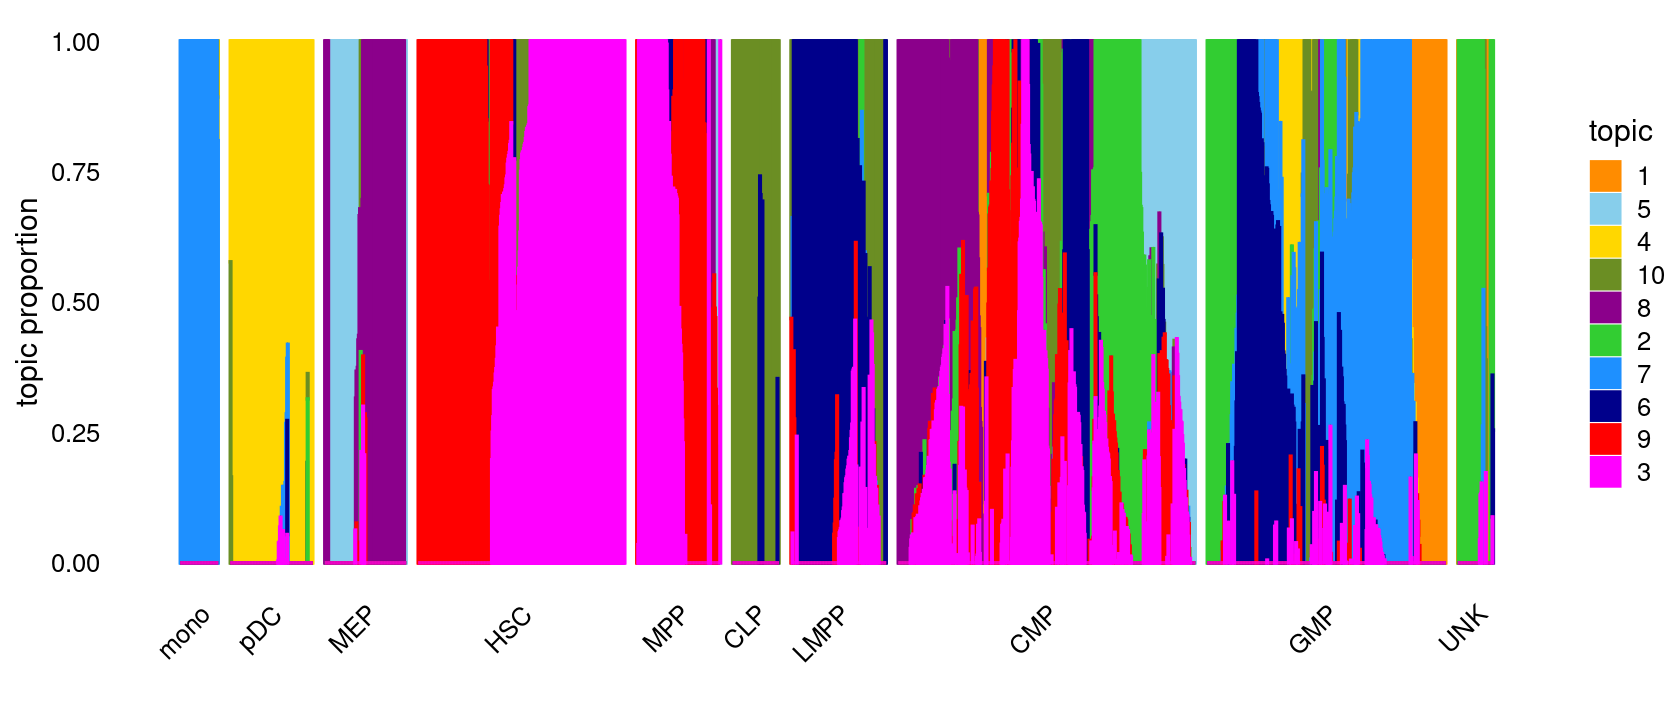
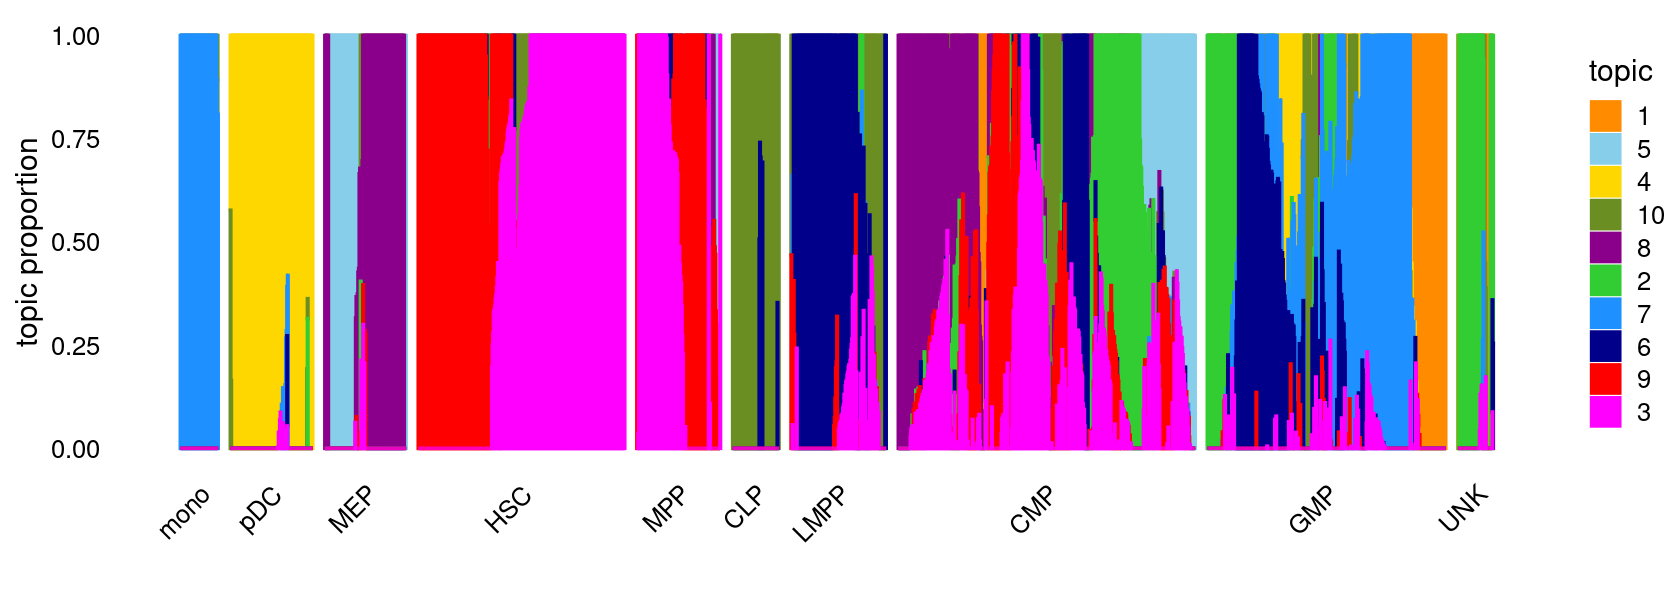
Build site.

diff --git a/docs/analysis_Buenrostro2018_k10.html b/docs/analysis_Buenrostro2018_k10.html
@@ -459,16 +459,16 @@ This reproducible <a href="https://rmarkdown.rstudio.com">R Markdown</a> analysi
 <div class="panel panel-default">
 <div class="panel-heading">
 <p class="panel-title">
-<a data-toggle="collapse" data-parent="#workflowr-checks" href="#strongRepositoryversionstrongahrefhttpsgithubcomstephenslabscATACseqtopicstree6779e042b6d0a4866d974eac84ea4fbbdc720ffetargetblank6779e04a"> <span class="glyphicon glyphicon-ok text-success" aria-hidden="true"></span> <strong>Repository version:</strong> <a href="https://github.com/stephenslab/scATACseq-topics/tree/6779e042b6d0a4866d974eac84ea4fbbdc720ffe" target="_blank">6779e04</a> </a>
+<a data-toggle="collapse" data-parent="#workflowr-checks" href="#strongRepositoryversionstrongahrefhttpsgithubcomstephenslabscATACseqtopicstree7f5ca244201119044b6a4d53672daf6ea8bb3420targetblank7f5ca24a"> <span class="glyphicon glyphicon-ok text-success" aria-hidden="true"></span> <strong>Repository version:</strong> <a href="https://github.com/stephenslab/scATACseq-topics/tree/7f5ca244201119044b6a4d53672daf6ea8bb3420" target="_blank">7f5ca24</a> </a>
 </p>
 </div>
[2 lines of base64/hex data omitted]
 <div class="panel-body">
 <p>
 Great! You are using Git for version control. Tracking code development and connecting the code version to the results is critical for reproducibility.
 </p>
 <p>
-The results in this page were generated with repository version <a href="https://github.com/stephenslab/scATACseq-topics/tree/6779e042b6d0a4866d974eac84ea4fbbdc720ffe" target="_blank">6779e04</a>. See the <em>Past versions</em> tab to see a history of the changes made to the R Markdown and HTML files.
+The results in this page were generated with repository version <a href="https://github.com/stephenslab/scATACseq-topics/tree/7f5ca244201119044b6a4d53672daf6ea8bb3420" target="_blank">7f5ca24</a>. See the <em>Past versions</em> tab to see a history of the changes made to the R Markdown and HTML files.
 </p>
 <p>
 Note that you need to be careful to ensure that all relevant files for the analysis have been committed to Git prior to generating the results (you can use <code>wflow_publish</code> or <code>wflow_git_commit</code>). workflowr only checks the R Markdown file, but you know if there are other scripts or data files that it depends on. Below is the status of the Git repository when the results were generated:
@@ -492,6 +492,8 @@ Unstaged changes:
     Modified:   analysis/motif_analysis_Buenrostro2018_Chen2019pipeline.Rmd
     Modified:   analysis/motif_analysis_Cusanovich2018.Rmd
     Modified:   analysis/plots_Cusanovich2018.Rmd
+    Modified:   scripts/DA_analysis.R
+    Modified:   scripts/postfit_Buenrostro2018_v2.sh
 
 </code></pre>
 <p>
@@ -530,6 +532,40 @@ Message
 </tr>
 </thead>
 <tbody>
+<tr>
+<td>
+Rmd
+</td>
+<td>
+<a href="https://github.com/stephenslab/scATACseq-topics/blob/7f5ca244201119044b6a4d53672daf6ea8bb3420/analysis/analysis_Buenrostro2018_k10.Rmd" target="_blank">7f5ca24</a>
+</td>
+<td>
+kevinlkx
+</td>
+<td>
+2022-03-02
+</td>
+<td>
+updated with original data with peaks called from bulk samples
+</td>
+</tr>
+<tr>
+<td>
+html
+</td>
+<td>
+<a href="https://rawcdn.githack.com/stephenslab/scATACseq-topics/5c18b155ef8a570a43ed57bfde5d2ae14c921d42/docs/analysis_Buenrostro2018_k10.html" target="_blank">5c18b15</a>
+</td>
+<td>
+kevinlkx
+</td>
+<td>
+2022-03-02
+</td>
+<td>
+Build site.
+</td>
+</tr>
 <tr>
 <td>
 Rmd
@@ -635,23 +671,25 @@ library(RColorBrewer)
 library(DT)
 library(reshape)
 source(&quot;code/plots.R&quot;)</code></pre>
-<p>Load the data.</p>
+<div id="load-the-data" class="section level3">
+<h3>Load the data</h3>
+<p>Data downloaded from original paper.</p>
 <pre class="r"><code>data.dir &lt;- &quot;/project2/mstephens/kevinluo/scATACseq-topics/data/Buenrostro_2018/processed_data/&quot;
 load(file.path(data.dir, &quot;Buenrostro_2018_binarized_counts.RData&quot;))
 cat(sprintf(&quot;%d x %d counts matrix.\n&quot;,nrow(counts),ncol(counts)))
 samples$cell &lt;- rownames(samples)
 samples$label &lt;- as.factor(samples$label)
 # 2953 x 491437 counts matrix.</code></pre>
-<p>Load the K = 10 multinomial topic model fit.</p>
+</div>
+<div id="topic-model-fit" class="section level3">
+<h3>Topic model fit</h3>
+<p>Load the K = 10 topic model fit to the data downloaded from the original paper.</p>
 <pre class="r"><code>fit.dir &lt;- &quot;/project2/mstephens/kevinluo/scATACseq-topics/output/Buenrostro_2018/binarized/&quot;
 fit &lt;- readRDS(file.path(fit.dir, &quot;/fit-Buenrostro2018-binarized-scd-ex-k=10.rds&quot;))$fit
 fit &lt;- poisson2multinom(fit)</code></pre>
-<div id="structure-plots" class="section level2">
-<h2>Structure plots</h2>
-<p>The structure plots below summarize the topic proportions in the samples grouped by different tissues.</p>
 </div>
-<div id="visualize-by-structure-plot-grouped-by-tissues" class="section level2">
-<h2>Visualize by Structure plot grouped by tissues</h2>
+<div id="structure-plot" class="section level3">
+<h3>Structure plot</h3>
 <pre class="r"><code>
 topic_colors &lt;- c(&quot;darkorange&quot;,&quot;limegreen&quot;,&quot;magenta&quot;,&quot;gold&quot;,&quot;skyblue&quot;,
                   &quot;darkblue&quot;,&quot;dodgerblue&quot;,&quot;darkmagenta&quot;,&quot;red&quot;,&quot;olivedrab&quot;)
@@ -689,6 +727,17 @@ Date
 <tbody>
 <tr>
 <td>
+<a href="https://github.com/stephenslab/scATACseq-topics/blob/5c18b155ef8a570a43ed57bfde5d2ae14c921d42/docs/figure/analysis_Buenrostro2018_k10.Rmd/structure-plot-1.png" target="_blank">5c18b15</a>
+</td>
+<td>
+kevinlkx
+</td>
+<td>
+2022-03-02
+</td>
+</tr>
+<tr>
+<td>
 <a href="https://github.com/stephenslab/scATACseq-topics/blob/c4a7131ab69ac51cf7af1d674f63d14d10fb687a/docs/figure/analysis_Buenrostro2018_k10.Rmd/structure-plot-1.png" target="_blank">c4a7131</a>
 </td>
 <td>
@@ -702,8 +751,9 @@ kevinlkx
 </table>
 </div>
 </div>
+</div>
 <div id="k-means-clustering-on-topic-proportions" class="section level3">
-<h3>k-means clustering on topic proportions</h3>
+<h3>K-means clustering on topic proportions</h3>
 <p>Define clusters using k-means, and then create structure plot based on the clusters from k-means.</p>
 <p>k-means clustering (using 12 clusters) on topic proportions</p>
 <pre class="r"><code>set.seed(1)
@@ -737,6 +787,17 @@ Date
 <tbody>
 <tr>
 <td>
+<a href="https://github.com/stephenslab/scATACseq-topics/blob/5c18b155ef8a570a43ed57bfde5d2ae14c921d42/docs/figure/analysis_Buenrostro2018_k10.Rmd/structure-plot-kmeans-12clusters-1.png" target="_blank">5c18b15</a>
+</td>
+<td>
+kevinlkx
+</td>
+<td>
+2022-03-02
+</td>
+</tr>
+<tr>
+<td>
 <a href="https://github.com/stephenslab/scATACseq-topics/blob/c4a7131ab69ac51cf7af1d674f63d14d10fb687a/docs/figure/analysis_Buenrostro2018_k10.Rmd/structure-plot-kmeans-12clusters-1.png" target="_blank">c4a7131</a>
 </td>
 <td>
@@ -753,9 +814,8 @@ kevinlkx
 <pre><code>#   1   2   3   4   5   6   7   8   9  10  11  12 
 # 303 214 182 159  89 241 156 147 108  83 198 154</code></pre>
 </div>
-</div>
-<div id="different-accessibility-da-analysis" class="section level2">
-<h2>Different accessibility (DA) analysis</h2>
+<div id="differential-accessibility-da-analysis" class="section level3">
+<h3>Differential accessibility (DA) analysis</h3>
 <p>Load DA analysis results (10000 iterations of MCMC)</p>
 <pre class="r"><code>postfit_dir &lt;- &quot;/project2/mstephens/kevinluo/scATACseq-topics/output/Buenrostro_2018/binarized/postfit_v2/&quot;
 
@@ -804,6 +864,17 @@ Date
 </tr>
 </thead>
 <tbody>
+<tr>
+<td>
+<a href="https://github.com/stephenslab/scATACseq-topics/blob/5c18b155ef8a570a43ed57bfde5d2ae14c921d42/docs/figure/analysis_Buenrostro2018_k10.Rmd/region-volcano-plots-1.png" target="_blank">5c18b15</a>
+</td>
+<td>
+kevinlkx
+</td>
+<td>
+2022-03-02
+</td>
+</tr>
 <tr>
 <td>
 <a href="https://github.com/stephenslab/scATACseq-topics/blob/fe19ea80abc5db566fdab01d380d2fa7841083f1/docs/figure/analysis_Buenrostro2018_k10.Rmd/region-volcano-plots-1.png" target="_blank">fe19ea8</a>
